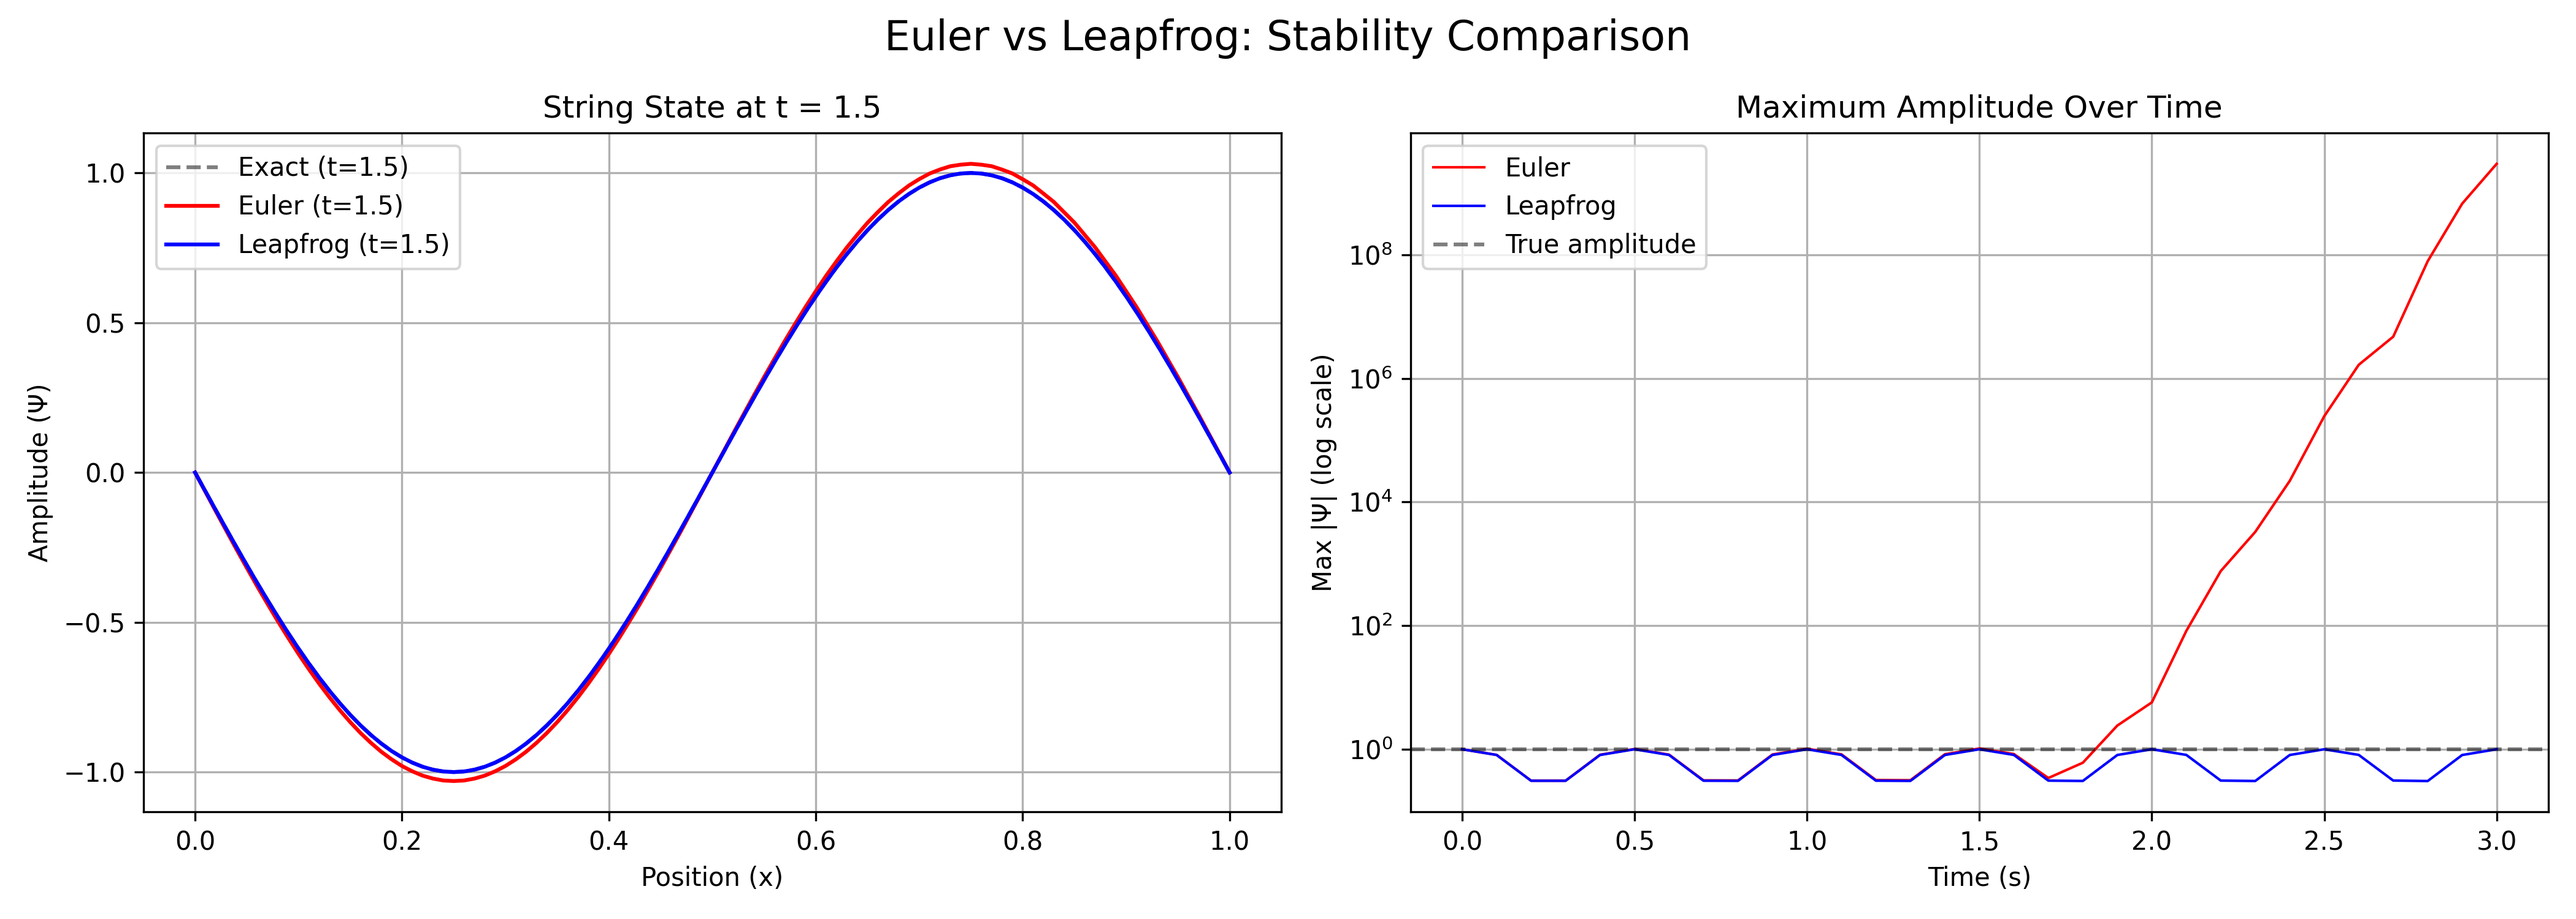
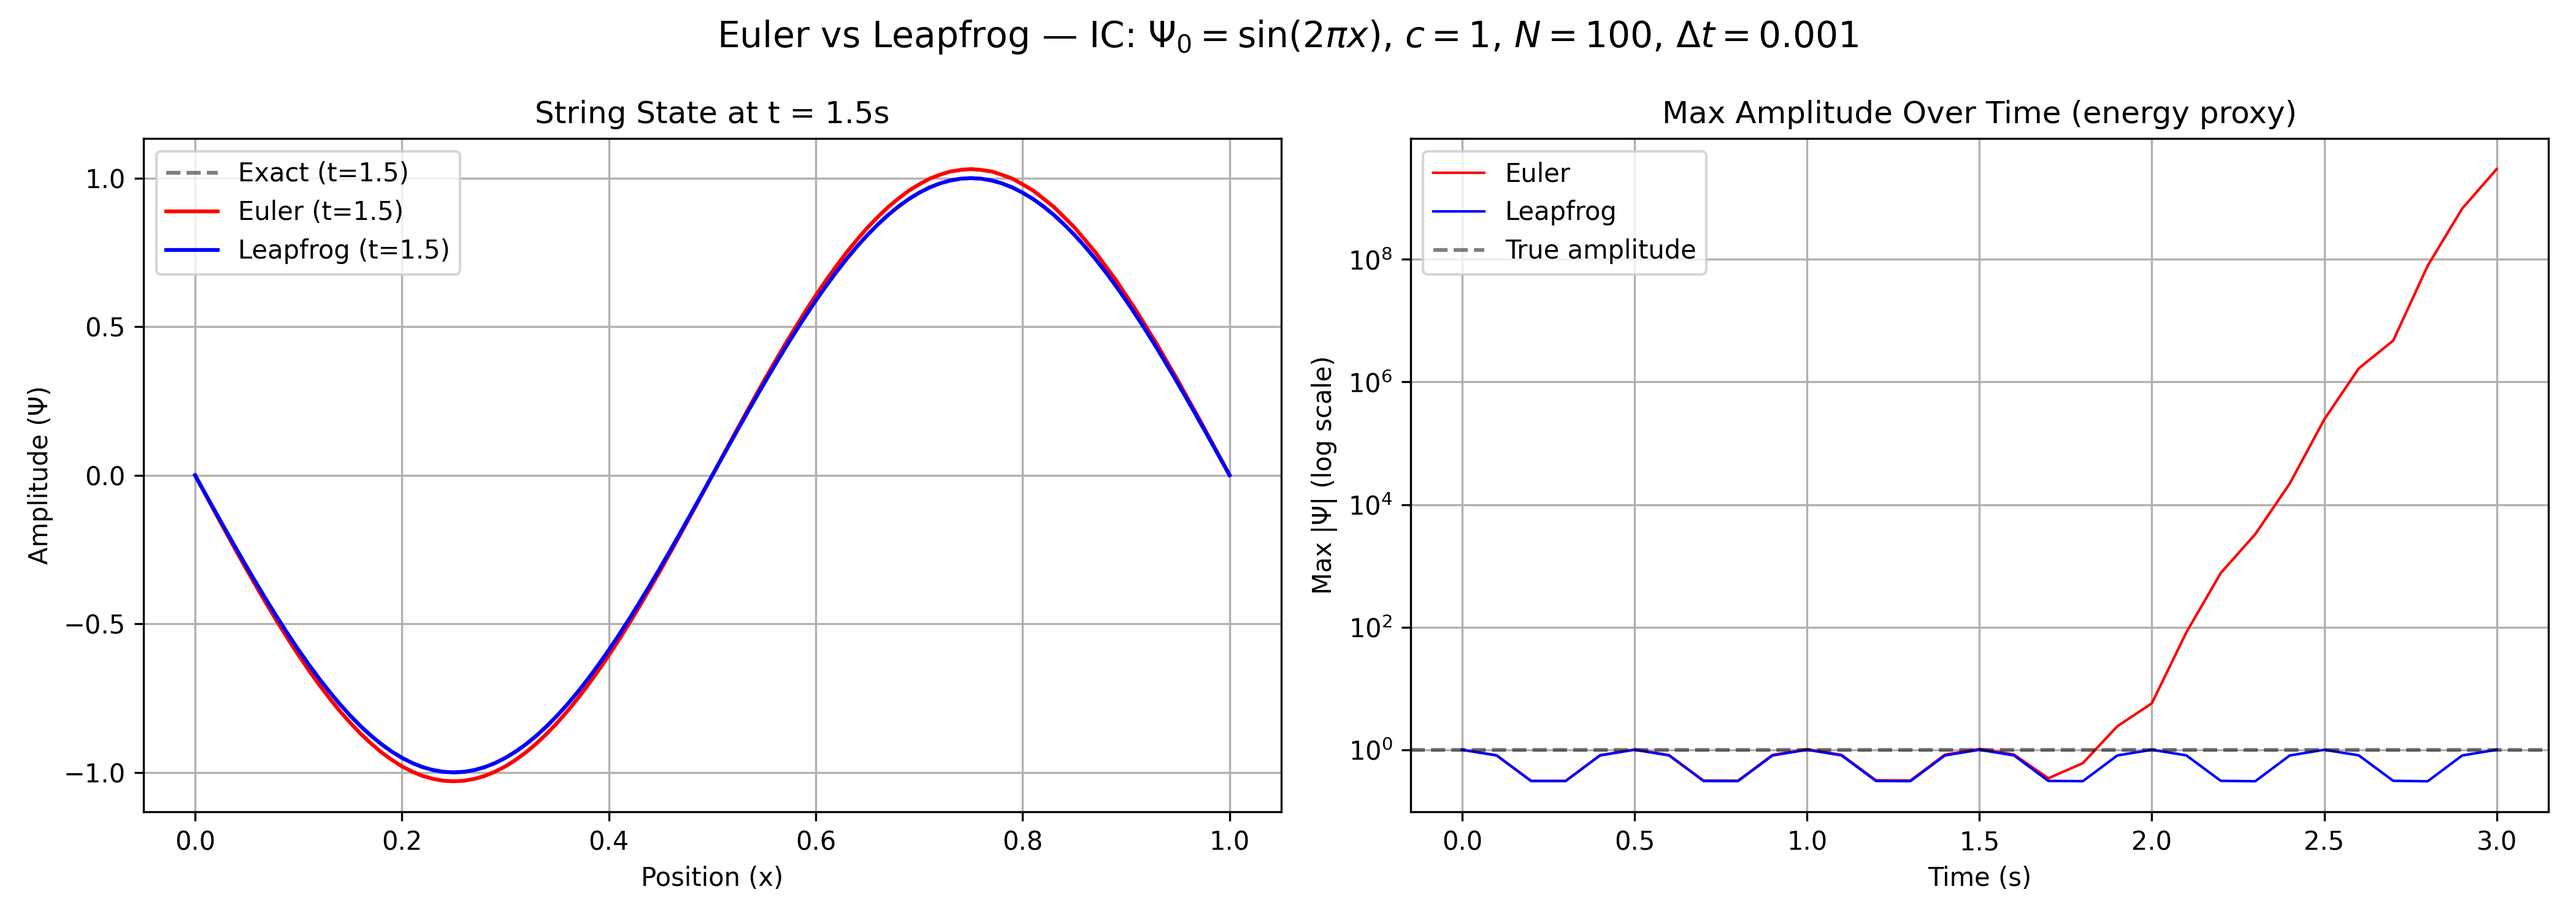
plots clarity

diff --git a/assignment_1/experiment_wave.py b/assignment_1/experiment_wave.py
@@ -63,7 +63,7 @@ def run_experiment_b():
         ax.set_xlabel("Position (x)")
         if i == 0:
             ax.set_ylabel("Amplitude (Psi)")
-        ax.legend()
+            ax.legend()
         ax.grid(True)
 
     plt.tight_layout()
@@ -153,14 +153,15 @@ def run_experiment_bonus():
     psi_leapfrog, _ = solve_wave_equation_leapfrog(psi0, N, dt, c=c, L=L, t_max=t_long)
 
     fig, axes = plt.subplots(1, 2, figsize=(14, 5))
-    fig.suptitle("Euler vs Leapfrog: Stability Comparison", fontsize=16)
+    fig.suptitle(r"Euler vs Leapfrog — IC: $\Psi_0 = \sin(2\pi x)$, $c = 1$, $N = 100$, $\Delta t = 0.001$",
+                 fontsize=14)
 
     # Panel 1
     ax = axes[0]
     ax.plot(x, analytical, 'k--', label=f"Exact (t={t_compare})", alpha=0.5)
     ax.plot(x, psi_euler_short[-1, :], 'r-', label=f"Euler (t={t_compare})")
     ax.plot(x, psi_lf_short[-1, :], 'b-', label=f"Leapfrog (t={t_compare})")
-    ax.set_title(f"String State at t = {t_compare}")
+    ax.set_title(f"String State at t = {t_compare}s")
     ax.set_xlabel("Position (x)")
     ax.set_ylabel("Amplitude (Ψ)")
     ax.legend()
@@ -178,7 +179,7 @@ def run_experiment_bonus():
     ax.semilogy(times, amp_euler, 'r-', label="Euler", linewidth=1)
     ax.semilogy(times, amp_leapfrog, 'b-', label="Leapfrog", linewidth=1)
     ax.axhline(y=1.0, color='k', linestyle='--', alpha=0.5, label="True amplitude")
-    ax.set_title("Maximum Amplitude Over Time")
+    ax.set_title("Max Amplitude Over Time (energy proxy)")
     ax.set_xlabel("Time (s)")
     ax.set_ylabel("Max |Ψ| (log scale)")
     ax.legend()
